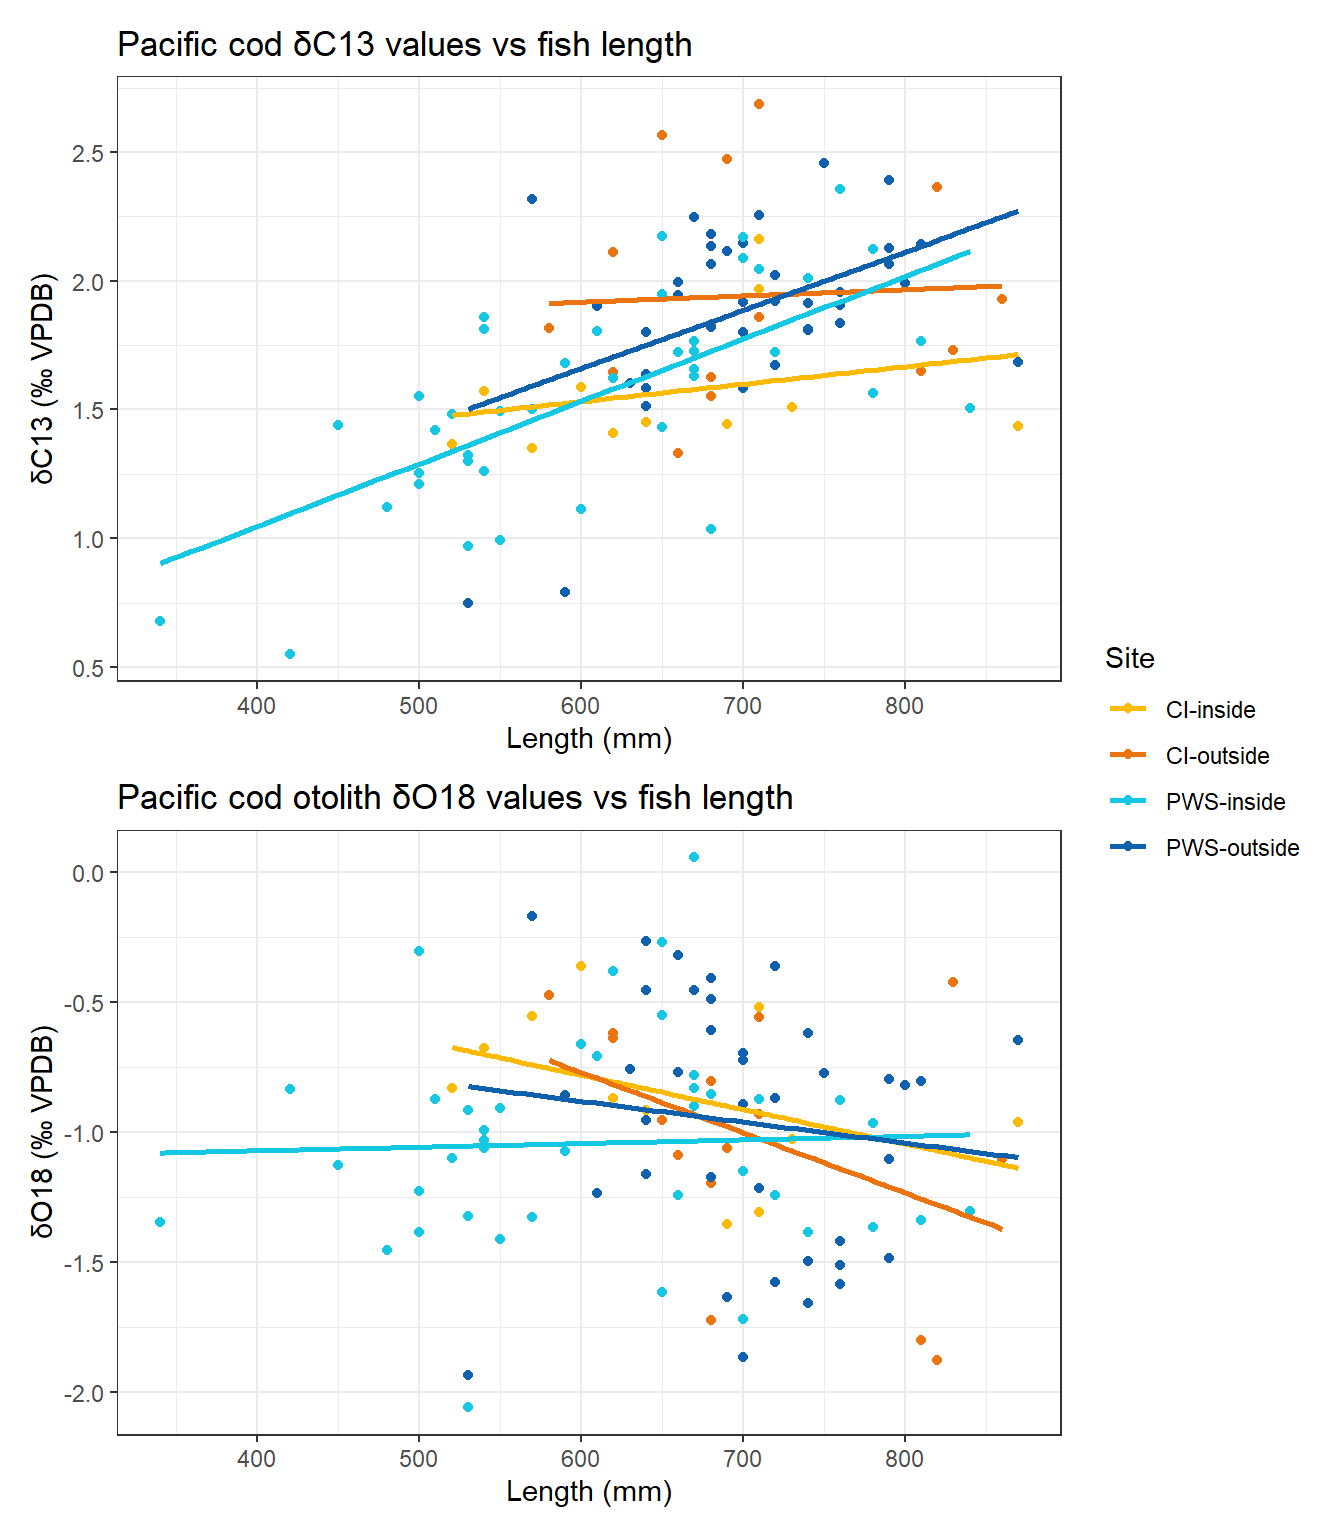
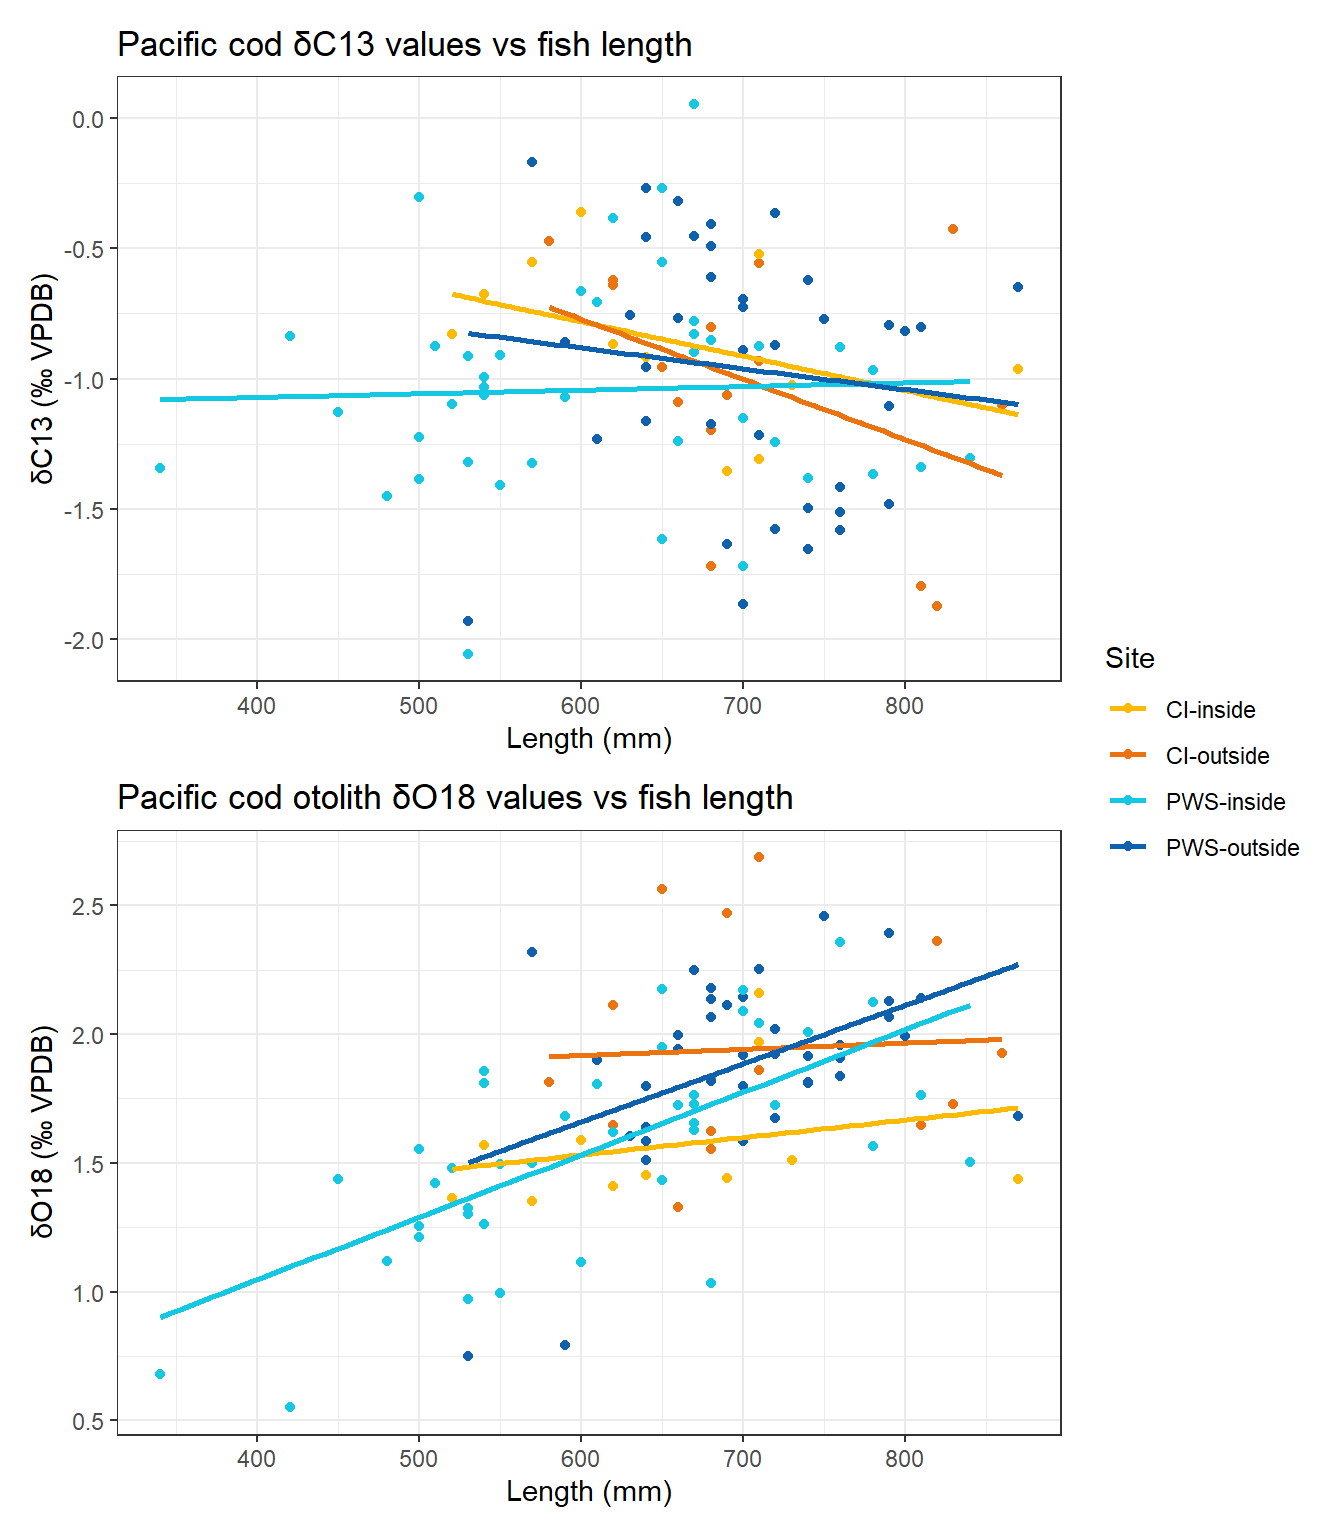
Fix column switching error

diff --git a/Code/O18_fjord_pcod.html b/Code/O18_fjord_pcod.html
@@ -69,13 +69,13 @@ ul.task-list li input[type="checkbox"] {
 </div>
 <section id="contributors" class="level5">
 <h5 class="anchored" data-anchor-id="contributors">Contributors</h5>
-<p>Beth Matta, Kali Stone, Brenna Hsieh, Kathrin Bayer, Derek Chamberlin - Age and Growth Program</p>
+<p>Beth Matta, Kali Stone, Brenna Hsieh, Kathrin Bayer, Derek Chamberlin, Esther Goldstein - Age and Growth Program</p>
 <p>Ingrid Spies, Laura Timm, Sarah Schaal</p>
 <p><span style="color:red;"><strong>This document is preliminary; please check all statements highlighted in red for accuracy.</strong></span></p>
 </section>
 <section id="background" class="level2">
 <h2 class="anchored" data-anchor-id="background">Background</h2>
-<p>This report describes an analysis of stable isotopes (oxygen-18 and carbon-13) in otoliths of Pacific cod collected inside and outside fjord habitats in Cook Inlet and Prince William Sound in the Gulf of Alaska. This is a supplementary analysis to a larger genetics project exploring whether Pacific cod are locally adapted to these important coastal habitats. Otoliths were analyzed to determine whether thermal experience differs significantly inside and outside fjords. Otoliths are inert, calcium carbonate structures in the head that start forming before hatching and continue growing until death, thereby providing a lifetime record of experienced conditions. Oxygen-18 varies inversely with temperature, and carbon-13 is influenced by dietary carbon sources, metabolic rate, and potentially, hypoxic conditions. <span style="color:red;">(A more thorough review of the existing literature is needed before drawing conclusions regarding carbon-13 results presented herein.)</span></p>
+<p>This report describes an analysis of stable isotopes (oxygen-18 and carbon-13) in otoliths of Pacific cod collected inside and outside fjord habitats in Cook Inlet and Prince William Sound in the Gulf of Alaska. This is a supplementary analysis to a larger genetics project exploring whether Pacific cod are locally adapted to these important coastal habitats. Otoliths were analyzed to determine whether thermal experience differs significantly inside and outside fjords. Otoliths are inert, calcium carbonate structures in the head that start forming before hatching and continue growing until death, thereby providing a lifetime record of experienced conditions. Oxygen-18 varies inversely with temperature. Carbon-13 is influenced by dietary carbon sources, metabolic rate, dissolved inorganic carbon in the ambient water, and potentially, hypoxic conditions.</p>
 </section>
 <section id="methods" class="level2">
 <h2 class="anchored" data-anchor-id="methods">Methods</h2>
@@ -104,34 +104,34 @@ ul.task-list li input[type="checkbox"] {
 <tbody>
   <tr>
    <td style="text-align:left;"> CI-inside </td>
-   <td style="text-align:right;"> -0.85 </td>
-   <td style="text-align:right;"> 0.31 </td>
    <td style="text-align:right;"> 1.57 </td>
    <td style="text-align:right;"> 0.26 </td>
+   <td style="text-align:right;"> -0.85 </td>
+   <td style="text-align:right;"> 0.31 </td>
    <td style="text-align:right;"> 11 </td>
   </tr>
   <tr>
    <td style="text-align:left;"> CI-outside </td>
-   <td style="text-align:right;"> -1.02 </td>
-   <td style="text-align:right;"> 0.47 </td>
    <td style="text-align:right;"> 1.94 </td>
    <td style="text-align:right;"> 0.41 </td>
+   <td style="text-align:right;"> -1.02 </td>
+   <td style="text-align:right;"> 0.47 </td>
    <td style="text-align:right;"> 15 </td>
   </tr>
   <tr>
    <td style="text-align:left;"> PWS-inside </td>
-   <td style="text-align:right;"> -1.04 </td>
-   <td style="text-align:right;"> 0.41 </td>
    <td style="text-align:right;"> 1.56 </td>
+   <td style="text-align:right;"> 0.41 </td>
+   <td style="text-align:right;"> -1.04 </td>
    <td style="text-align:right;"> 0.41 </td>
    <td style="text-align:right;"> 41 </td>
   </tr>
   <tr>
    <td style="text-align:left;"> PWS-outside </td>
-   <td style="text-align:right;"> -0.96 </td>
-   <td style="text-align:right;"> 0.48 </td>
    <td style="text-align:right;"> 1.89 </td>
    <td style="text-align:right;"> 0.35 </td>
+   <td style="text-align:right;"> -0.96 </td>
+   <td style="text-align:right;"> 0.48 </td>
    <td style="text-align:right;"> 38 </td>
   </tr>
 </tbody>
@@ -151,7 +151,7 @@ ul.task-list li input[type="checkbox"] {
 </div>
 </div>
 </div>
-<p>Values of <span class="math inline">\(\delta\)</span><sup>18</sup>O were similar across areas, but those of <span class="math inline">\(\delta\)</span><sup>13</sup>C were consistently higher outside fjords (<a href="#fig-isotopes-box">Figure&nbsp;2</a>), apparently even when accounting for potential ontogenetic changes in diet (<a href="#fig-isotopes-lm">Figure&nbsp;3</a>).</p>
+<p>Values of <span class="math inline">\(\delta\)</span><sup>13</sup>C were similar across areas, but those of <span class="math inline">\(\delta\)</span><sup>18</sup>O were consistently higher outside fjords (<a href="#fig-isotopes-box">Figure&nbsp;2</a>), and independent of fish length (<a href="#fig-isotopes-lm">Figure&nbsp;3</a>).</p>
 <div class="cell">
 <div class="cell-output-display">
 <div id="fig-isotopes-box" class="quarto-figure quarto-figure-center anchored">
@@ -176,11 +176,10 @@ ul.task-list li input[type="checkbox"] {
 <section id="potential-next-steps" class="level2">
 <h2 class="anchored" data-anchor-id="potential-next-steps">Potential next steps</h2>
 <ul>
-<li>Parse out data into Site (Cook Inlet, Prince William Sound) and Habitat Type (Inside/Outside Fjords) and determine if above conclusion holds (multiple regression). Also consider PCA or discriminant analysis if there’s sufficient data (do isotope values reflect provenience?)</li>
+<li>Parse out data into Site (Cook Inlet, Prince William Sound) and Habitat Type (Inside/Outside Fjords) and determine if above conclusion holds (multiple regression).</li>
 <li>Estimate temperature (average lifetime thermal experience) from O18 values (use species-specific fractionation equation from Craig’s experimental work)</li>
 <li>Decide whether to age these fish or perform image analysis</li>
 <li>Compare with conclusions from genetics study</li>
-<li>Review literature for interpretation of C13 in fish otoliths</li>
 </ul>
 <p><span style="color:red;"><strong>Anything else I’m forgetting??</strong></span></p>
 </section>
